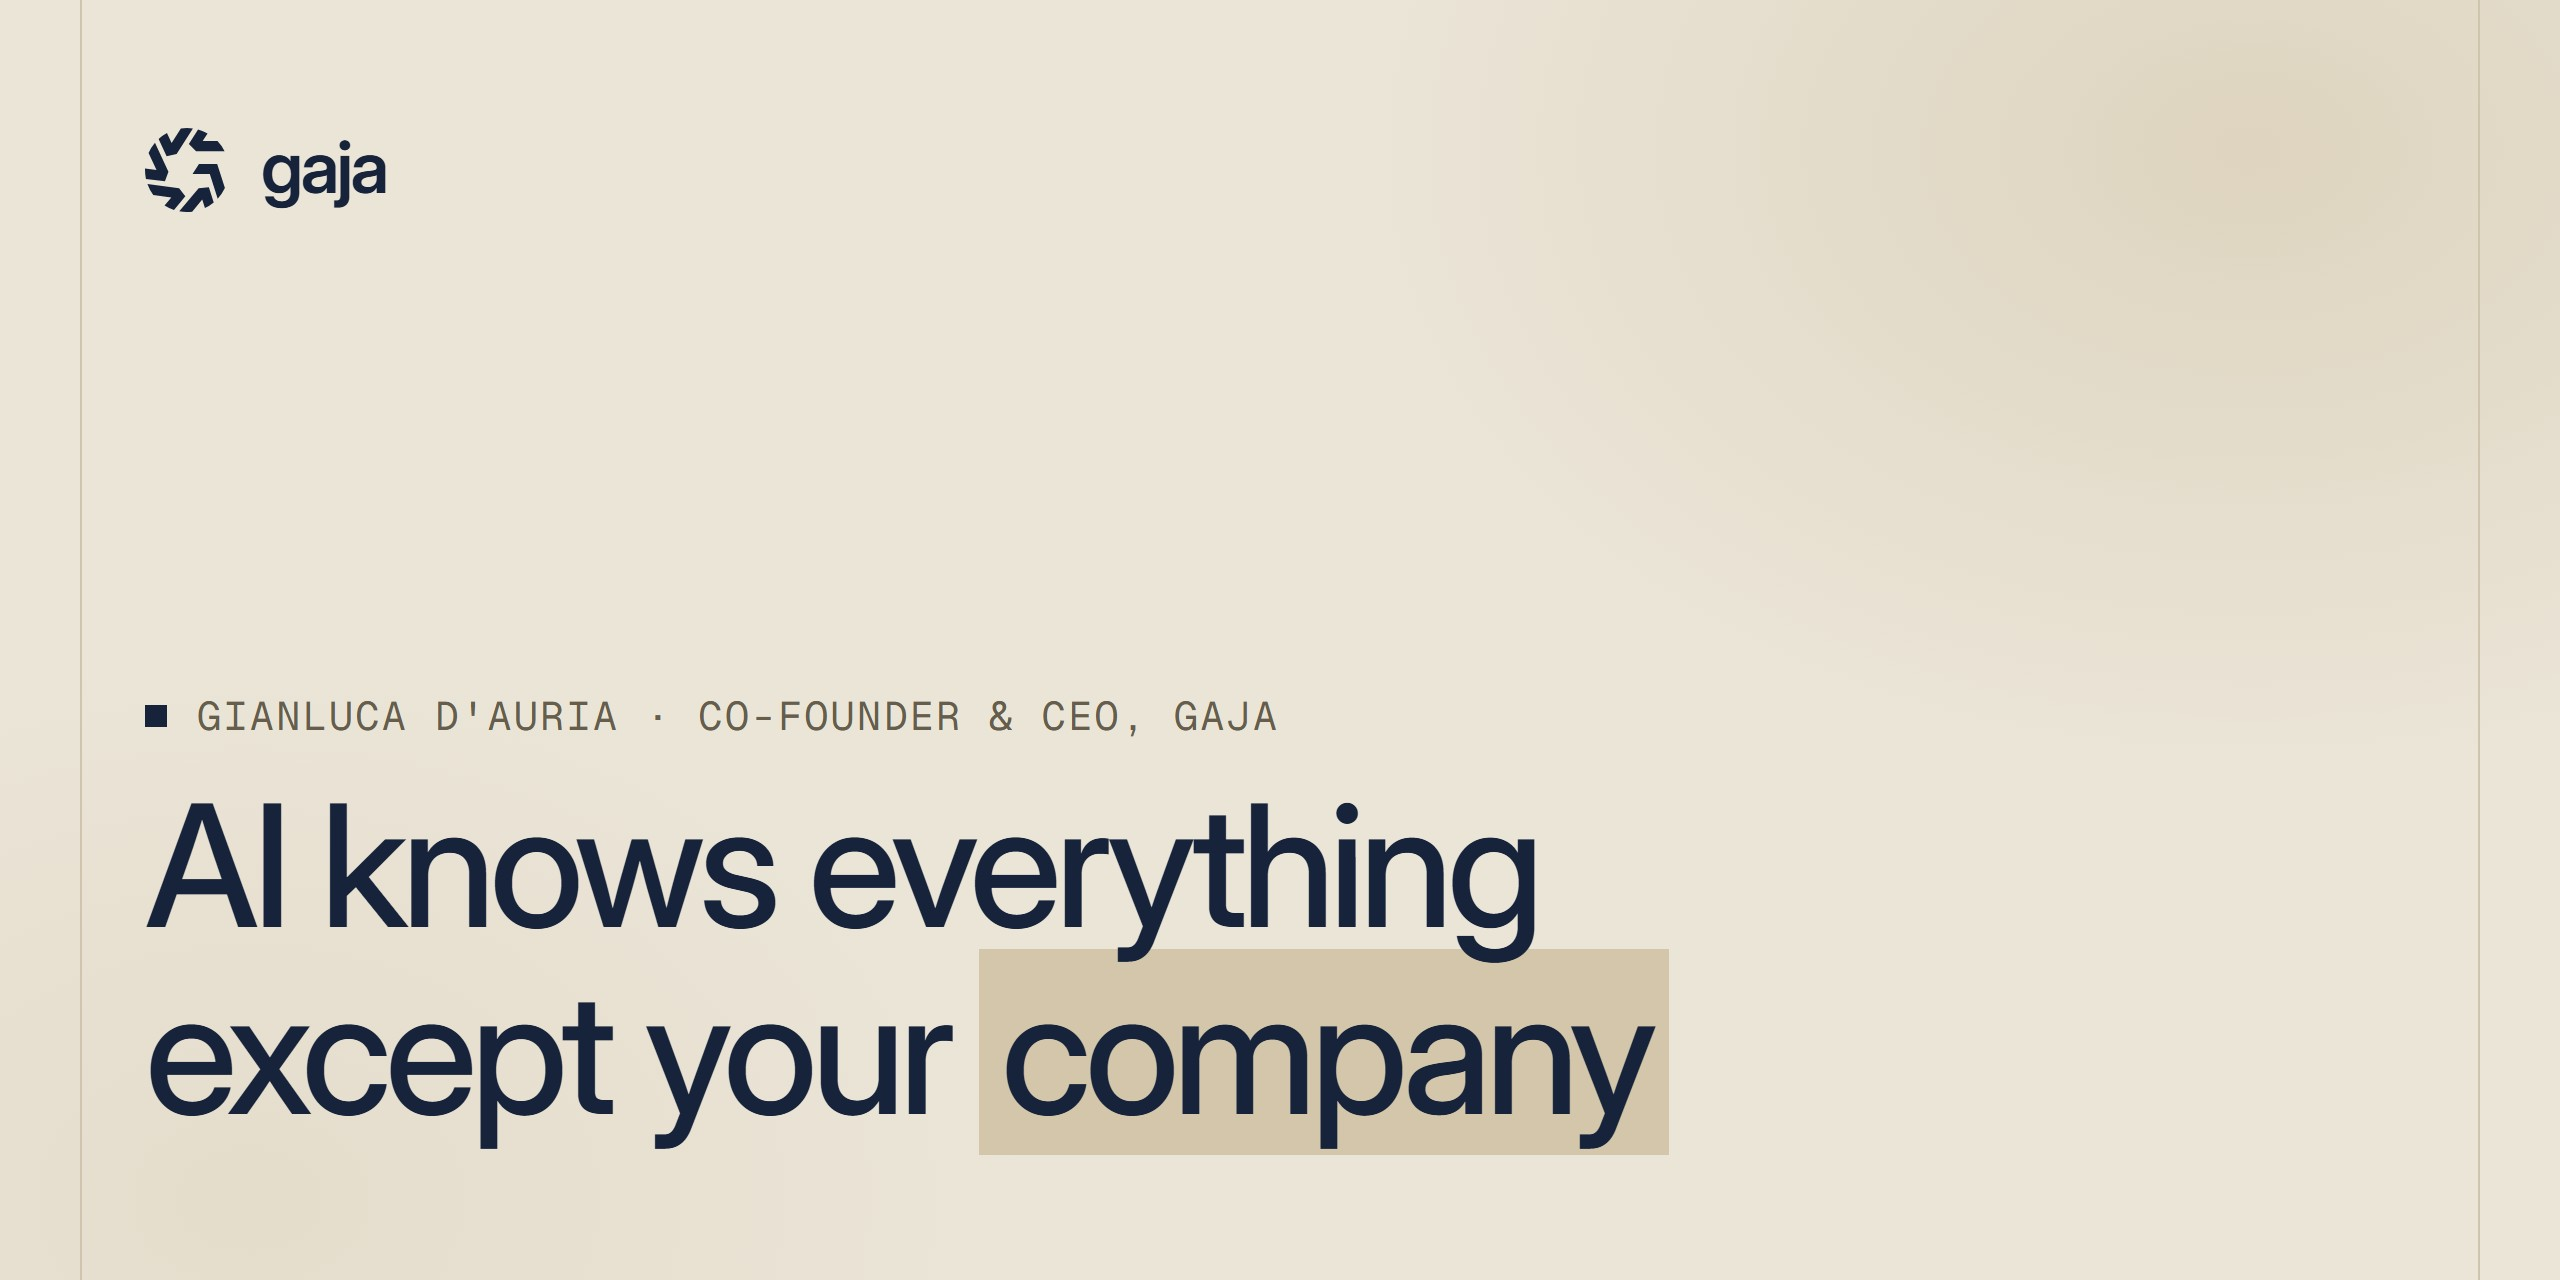
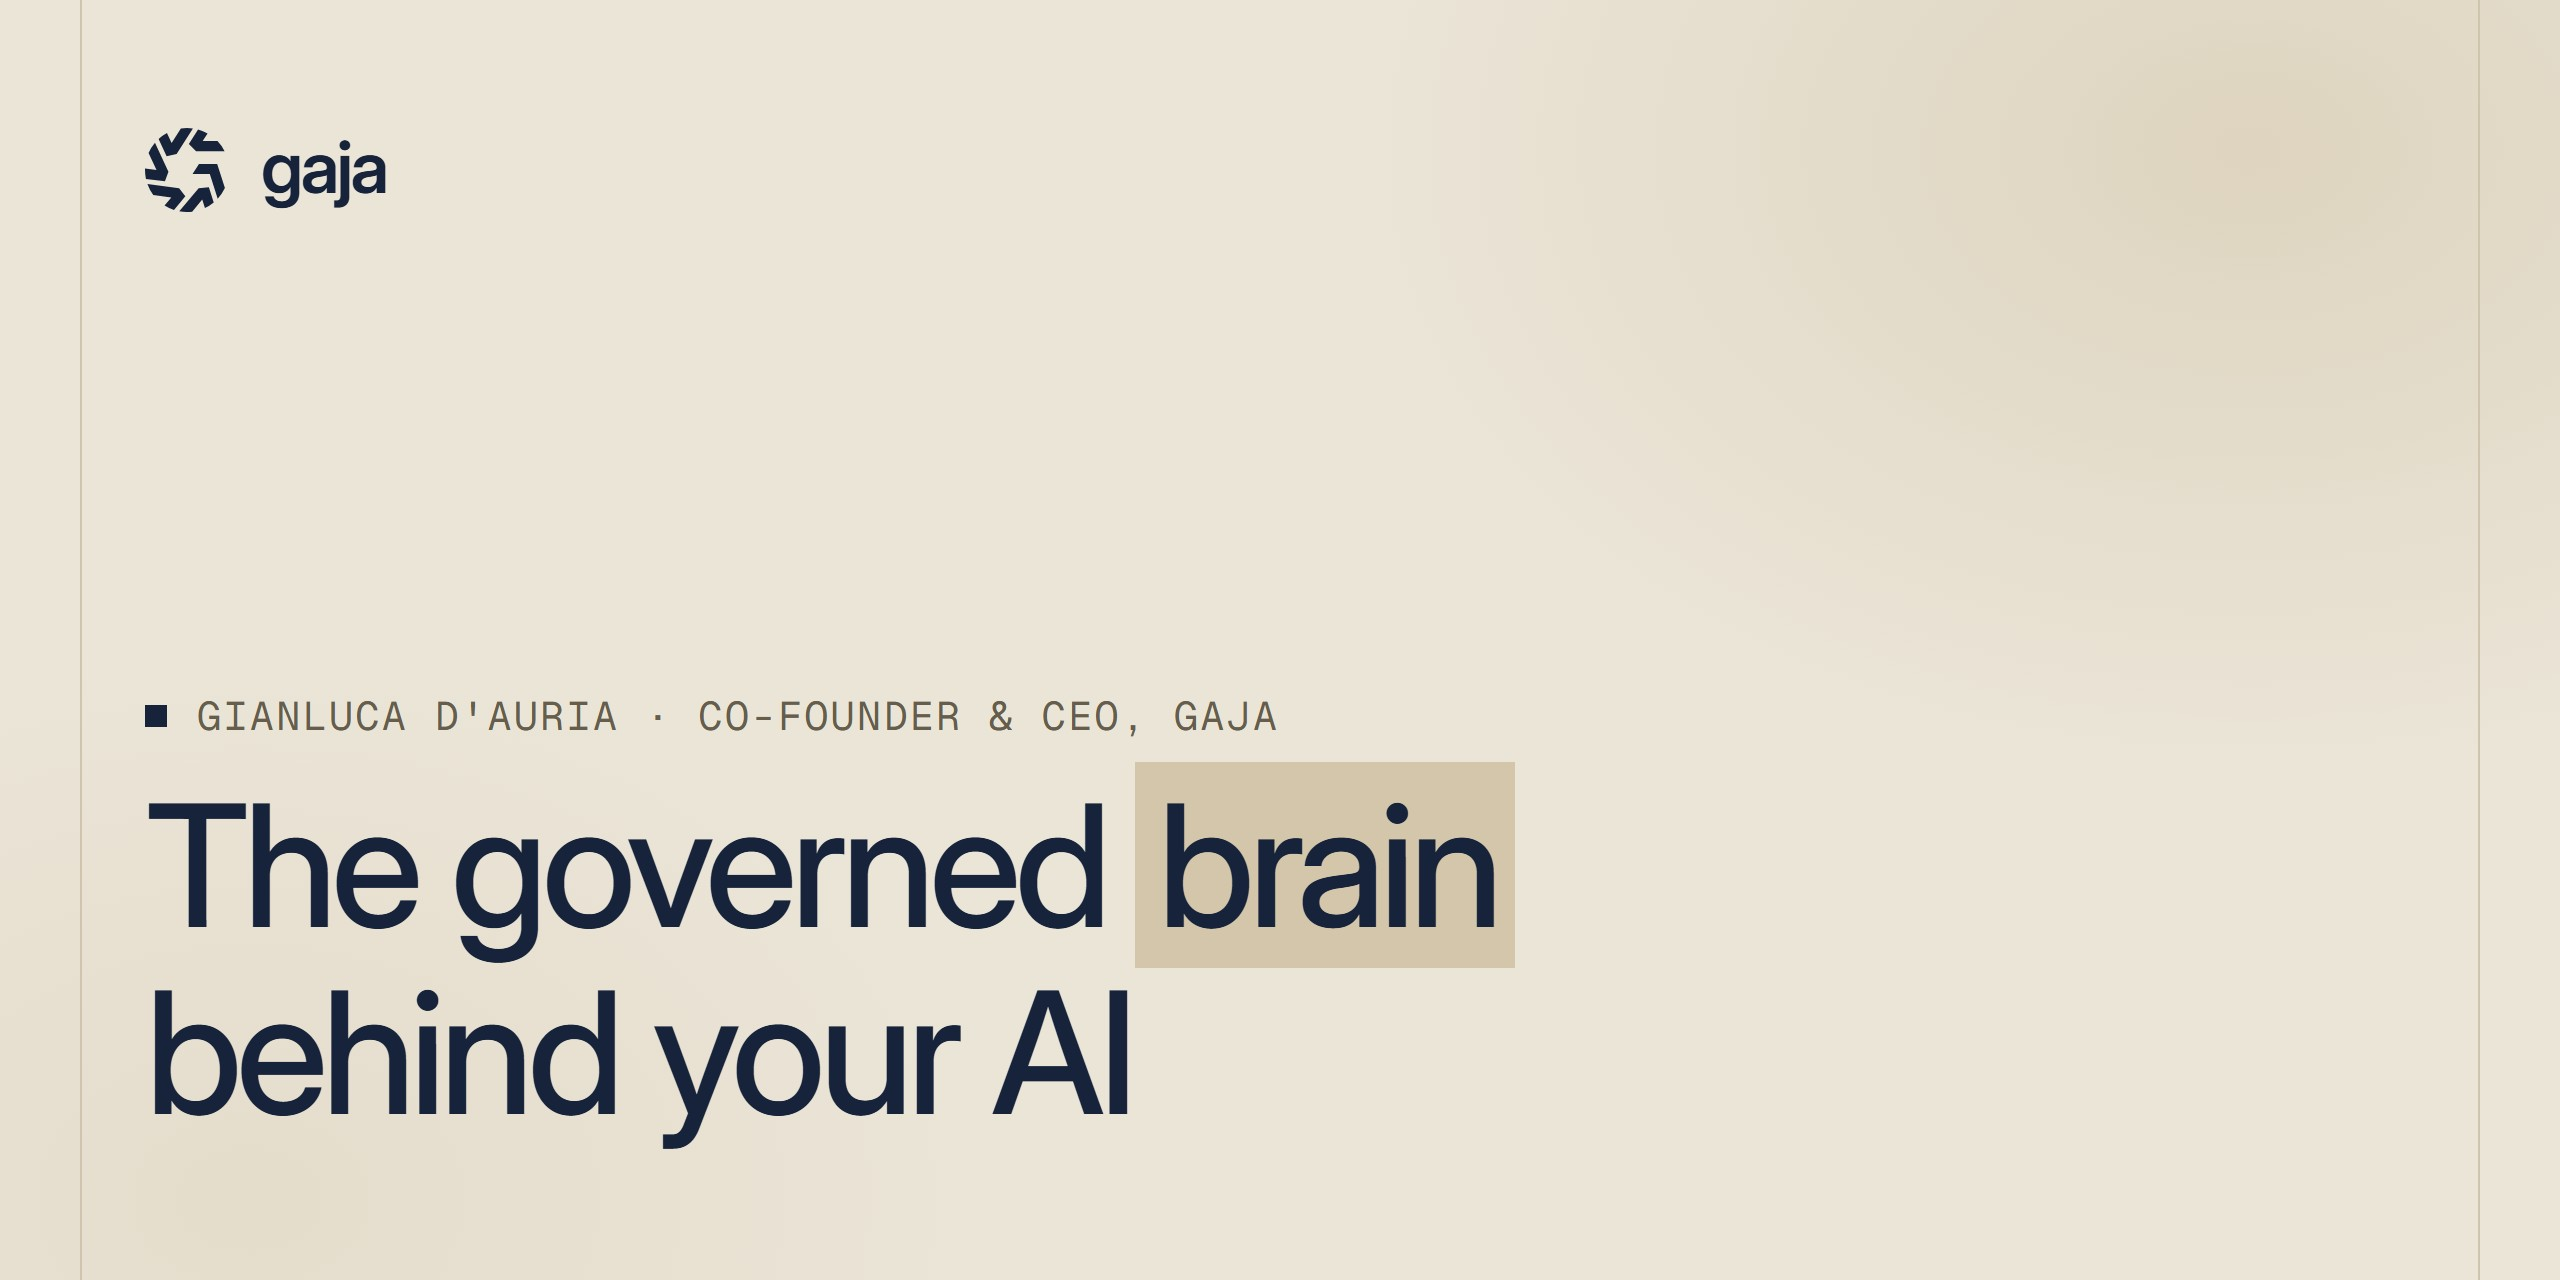
Profile: the cover carries gaja's public phrase

Changed region(s): [[0.0625, 0.5938, 0.6562, 0.9062]]

diff --git a/README.md b/README.md
@@ -1,4 +1,4 @@
-![Gianluca D'Auria, co-founder and CEO of gaja: AI knows everything except your company](.github/cover.jpg)
+![Gianluca D'Auria, co-founder and CEO of gaja, the governed brain behind your AI](.github/cover.jpg)
 
 # Gianluca D'Auria
 
